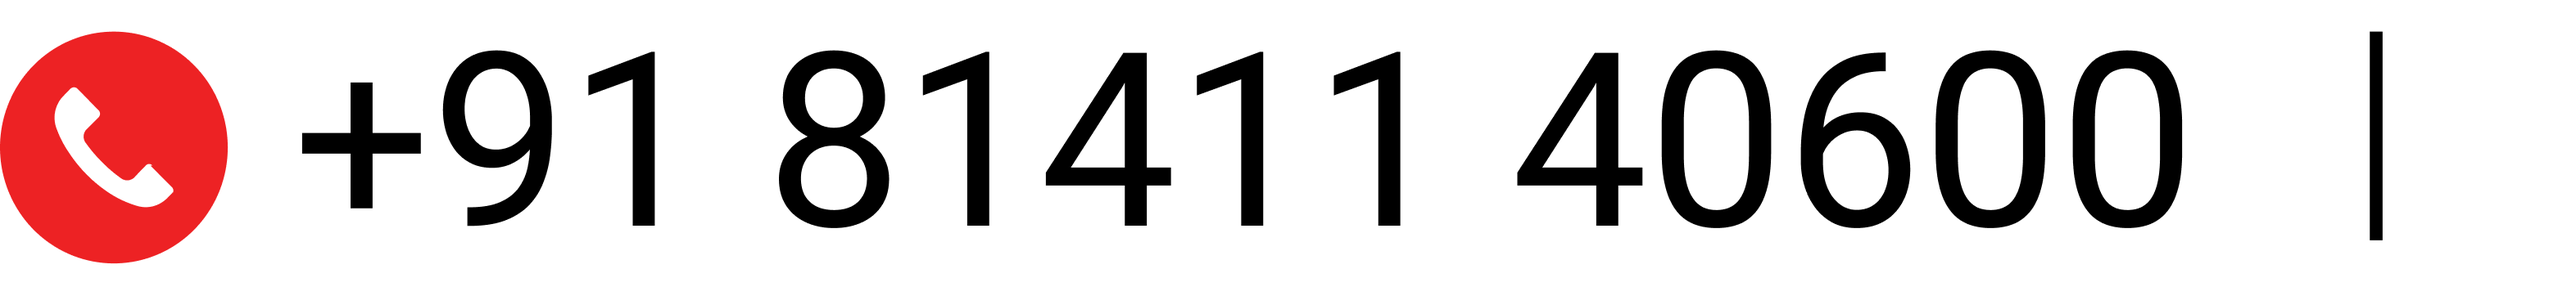
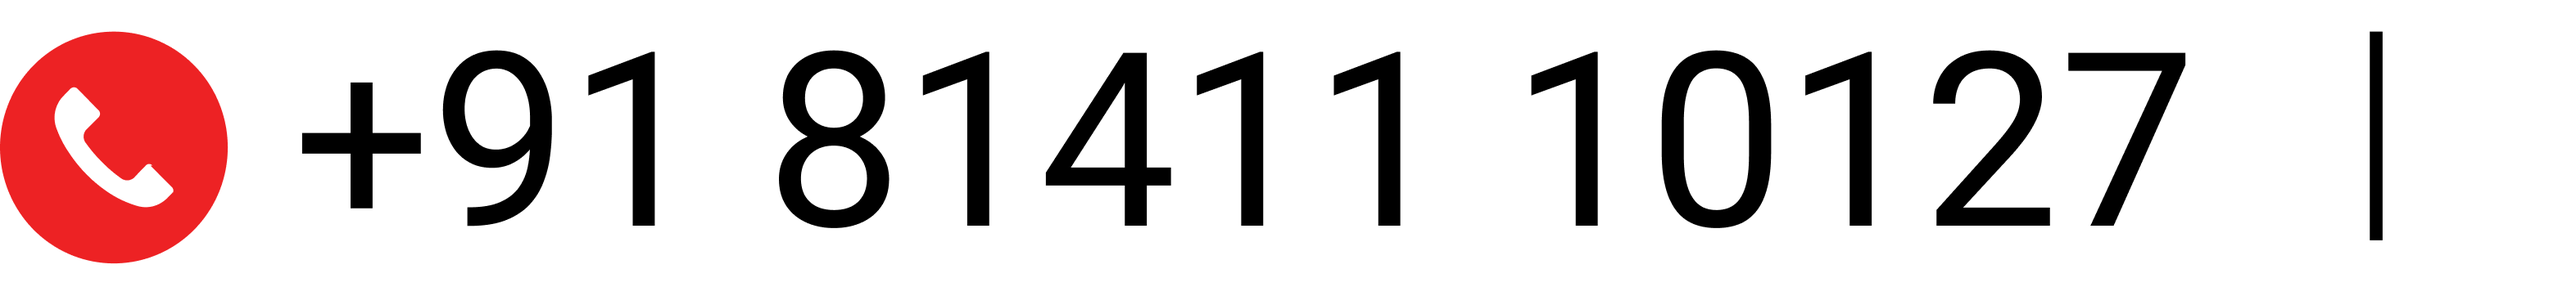
grfd

Changed region(s): [[0.6855, 0.1709, 0.8725, 0.7977], [0.5609, 0.1709, 0.6544, 0.7977]]

diff --git a/naushadali-shaikh.html b/naushadali-shaikh.html
@@ -44,7 +44,7 @@
                         </tr>
                         <tr>
                             <td style="display: inline-flex; border: 0px solid #fff;">
-                                <a href="tel:+918141140600"> <img style="height:14px;margin-left:-2px;" src="https://vcantech.github.io/bestow-sign/new/naushadali-shaikh_mobile.png" alt=""></a>
+                                <a href="tel:+918141110127"> <img style="height:14px;margin-left:-2px;" src="https://vcantech.github.io/bestow-sign/new/naushadali-shaikh_mobile.png" alt=""></a>
 
                                 <a href="https://bestow.in/" target="_blank"> <img style="height:14px;margin-left:-2px;" src="https://vcantech.github.io/bestow-sign/new/Group 277.png" alt=""></a>
 
